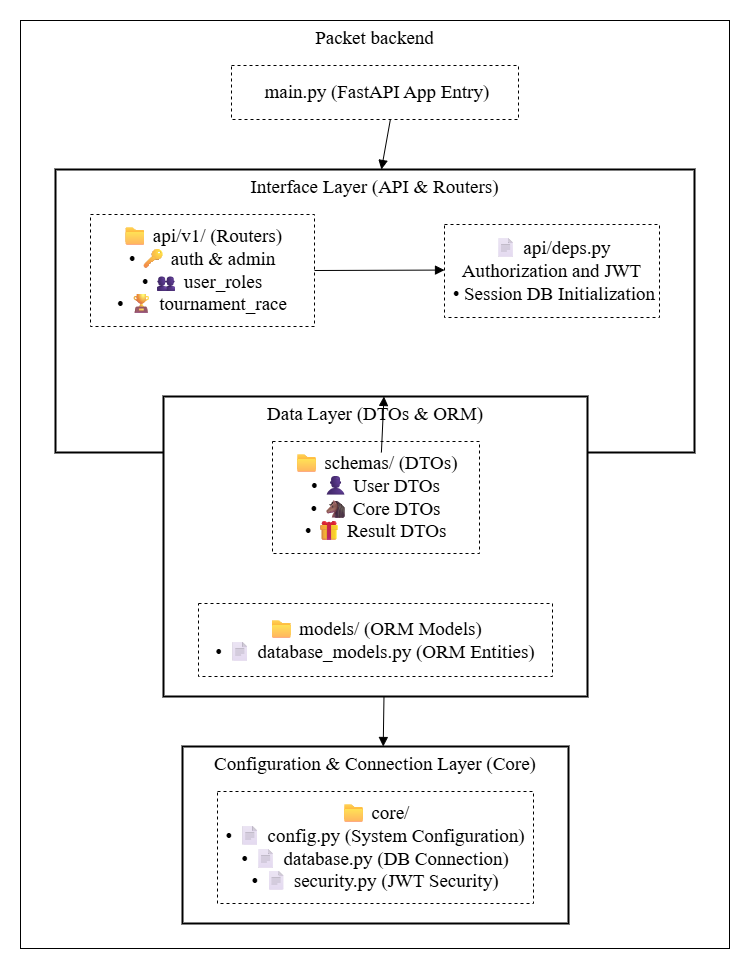
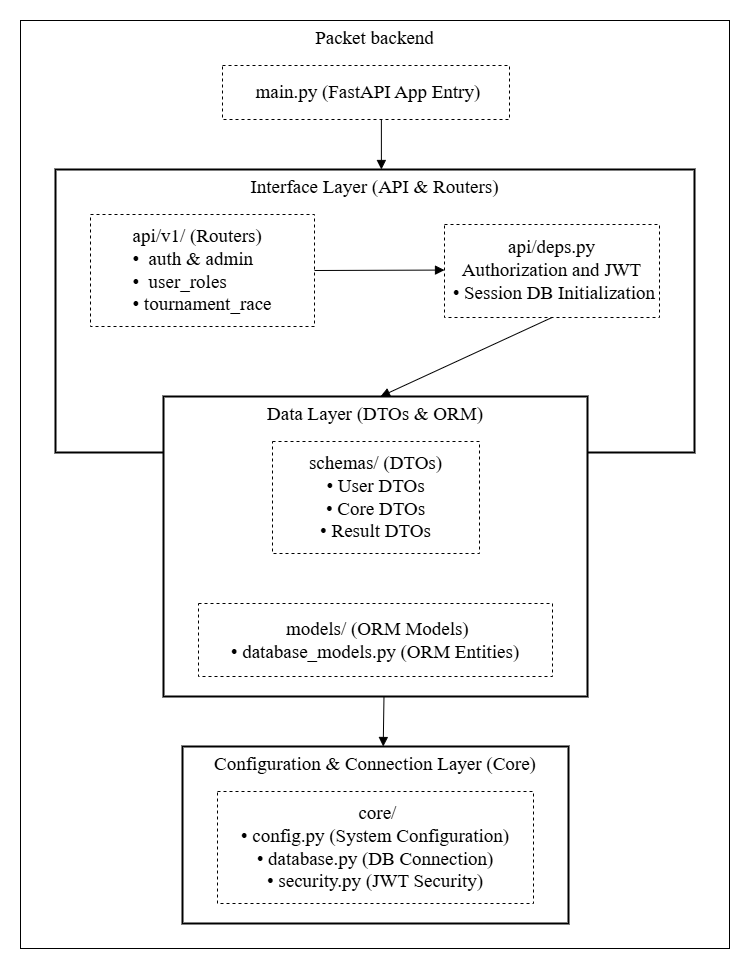
update chuong 5

diff --git a/report_latex_final/documents/software_testing_ocumentation.tex b/report_latex_final/documents/software_testing_ocumentation.tex
@@ -2,4 +2,290 @@
 
 \section{Scope of Testing}
 
+\subsection{In-Scope Testing}
+
+The test scope covers the main business functions of the Horse Racing Tournament Management System (HRTMS) web application. The purpose of testing is to verify that the core workflows work correctly for each role and that the backend data is stored and retrieved accurately.
+
+\begin{itemize}
+    \item \textbf{Authentication and Registration}
+    \begin{itemize}
+        \item Login with valid and invalid credentials.
+        \item Login handling for locked accounts.
+        \item Registration for Spectator, Horse Owner, Jockey, and Referee roles.
+        \item Logout and redirect back to the login page.
+    \end{itemize}
+
+    \item \textbf{Admin and Tournament Management}
+    \begin{itemize}
+        \item Load, create, update, and delete tournaments.
+        \item Create rounds and races.
+        \item Assign referees and validate scheduling conflicts.
+        \item Manage users, lock and unlock accounts, and change user roles.
+        \item Approve, reject, and reset registrations.
+        \item Manage prizes, awards, and tournament status.
+    \end{itemize}
+
+    \item \textbf{Horse Owner Workflow}
+    \begin{itemize}
+        \item Load, create, edit, and delete horse records.
+        \item Validate horse age and other required fields.
+        \item Select jockeys and send invitations.
+        \item Register horses for tournaments.
+        \item View registration status, profile details, upcoming races, and results.
+    \end{itemize}
+
+    \item \textbf{Jockey Workflow}
+    \begin{itemize}
+        \item View incoming invitations and respond with accept or reject.
+        \item View schedule, profile, and awards.
+        \item Update profile information.
+        \item Validate profile rules such as unique email and required fields.
+        \item Filter leaderboard data by tournament.
+    \end{itemize}
+
+    \item \textbf{Referee Workflow}
+    \begin{itemize}
+        \item View assigned races and race participant details.
+        \item Inspect races and record draft results.
+        \item Confirm official results.
+        \item Report violations and validate fine amounts.
+        \item Update result status from entered to completed.
+    \end{itemize}
+
+    \item \textbf{Spectator Workflow}
+    \begin{itemize}
+        \item Create, edit, and delete predictions.
+        \item Lock predictions after race time.
+        \item View upcoming schedules and completed race results.
+        \item Update personal profile and spectator statistics.
+        \item View leaderboard and filter by tournament.
+    \end{itemize}
+
+    \item \textbf{API Verification}
+    \begin{itemize}
+        \item Validate key backend endpoints with Postman.
+        \item Verify user data, rankings, race lists, invitations, prizes, and race result APIs.
+        \item Check response data, status codes, and persistence in the database.
+    \end{itemize}
+\end{itemize}
+
+\subsection{Out-of-Scope Testing}
+
+The following items are excluded from the final test scope because they are not part of the current release or they require a separate non-functional test plan:
+
+\begin{itemize}
+    \item External payment or betting integrations.
+    \item Mobile application testing.
+    \item Large-scale load or stress testing.
+    \item Automated UI testing frameworks, because the team decided to use manual browser testing for UI verification.
+    \item External services that are not implemented in the current HRTMS release.
+\end{itemize}
+
+\subsection{Constraints \& Assumptions}
+
+\begin{itemize}
+    \item Testing is performed in a production-like environment or a locally deployed environment with seeded test data.
+    \item Test accounts for all roles are available before execution.
+    \item Postman is used to verify backend endpoints and response payloads.
+    \item UI verification is performed manually in the browser using the latest stable Chrome version.
+    \item Test data is prepared in advance so that each role can follow its expected workflow without dependency issues.
+    \item Database connectivity remains stable during the test window.
+\end{itemize}
+
 \section{Test Strategy}
+
+\subsection{Testing Types}
+
+This project uses three main testing types: Unit Testing, Integration Testing, and Functional Testing. The test strategy is built around manual UI verification and Postman-based API verification, which matches the final decision of the team.
+
+\begin{itemize}
+    \item \textbf{Unit Testing}
+    \begin{itemize}
+        \item \textbf{Objective:} Verify the correctness of individual functions, services, controllers, and validation rules in isolation. In HRTMS, unit-level checks focus on login logic, horse age validation, tournament registration rules, invitation validation, race result processing, and leaderboard calculation.
+        \item \textbf{Technique:} White-box testing is applied by developers during implementation. Individual functions are checked with controlled inputs and mock data when they depend on the database or other modules.
+        \item \textbf{Completion Criteria:}
+        \begin{itemize}
+            \item Core business logic in important modules is covered by unit checks.
+            \item All unit test cases pass before code is merged.
+            \item No critical logic defect remains in authentication, validation, or result processing.
+        \end{itemize}
+    \end{itemize}
+
+    \item \textbf{Integration Testing}
+    \begin{itemize}
+        \item \textbf{Objective:} Validate that connected modules work correctly together, especially the interaction between the frontend, backend APIs, and database layer.
+        \item \textbf{Technique:} Black-box and gray-box testing are performed with Postman and browser-based verification. API requests are sent to the backend, and the results are checked against expected database changes and screen behavior.
+        \item \textbf{Completion Criteria:}
+        \begin{itemize}
+            \item All main integration scenarios are executed and passed.
+            \item Data exchange between frontend, backend, and database is stable.
+            \item No critical defect remains in login flow, registration, scheduling, invitation processing, or race result storage.
+        \end{itemize}
+    \end{itemize}
+
+    \item \textbf{Functional Testing}
+    \begin{itemize}
+        \item \textbf{Objective:} Confirm that the implemented features satisfy the business requirements for each role in the system.
+        \item \textbf{Technique:} Black-box testing is carried out manually through the browser to simulate real user journeys for Admin, Horse Owner, Jockey, Referee, and Spectator.
+        \item \textbf{Completion Criteria:}
+        \begin{itemize}
+            \item All major functional requirements are covered by manual test cases.
+            \item The tested features operate correctly for the intended role and screen.
+            \item No blocking issue remains that prevents normal use of the system.
+        \end{itemize}
+    \end{itemize}
+\end{itemize}
+
+\subsection{Test Levels}
+
+The table below shows how the three testing types are mapped to the testing levels used in this project.
+
+\TableStart{|p{0.28\textwidth}|p{0.18\textwidth}|p{0.18\textwidth}|p{0.18\textwidth}|p{0.18\textwidth}|}
+\textbf{Type of Tests} & \textbf{Unit} & \textbf{Integration} & \textbf{System} & \textbf{Acceptance} \\
+\hline
+Unit Testing & X &  &  &  \\
+\hline
+Integration Testing &  & X & X &  \\
+\hline
+Functional Testing &  &  & X & X \\
+\TableFinish{Test Levels for Horse Racing Tournament Management System}{tab:test_levels}
+
+\subsection{Supporting Tools}
+
+\TableStart{|p{0.28\textwidth}|p{0.20\textwidth}|p{0.22\textwidth}|p{0.18\textwidth}|}
+\textbf{Purpose} & \textbf{Tool} & \textbf{Provider / Vendor} & \textbf{Version} \\
+\hline
+Integration Testing (API) & Postman & Postman, Inc. & Latest \\
+\hline
+Functional Testing (UI) & Manual Browser Testing & In-house & Latest Chrome \\
+\hline
+Database Verification & SQL Server Management Studio & Microsoft & Latest \\
+\hline
+Test Case Tracking & Microsoft Excel & Microsoft & Latest \\
+\TableFinish{Supporting Tools for Testing}{tab:supporting_tools}
+
+\section{Test Plan}
+
+\subsection{Human Resources}
+
+The table below assigns the main testing responsibilities to each project member.
+
+\TableStart{|p{0.23\textwidth}|p{0.17\textwidth}|p{0.52\textwidth}|}
+\textbf{Worker / Doer} & \textbf{Role} & \textbf{Specific Responsibilities / Comments} \\
+\hline
+Ha Duy Hung & Project Leader & Execute and verify the login/logout testing flow, supervise overall testing progress, and approve the final report. \\
+\hline
+Dinh Thuy Anh & Test Leader & Execute and lead the Horse Owner testing flow, coordinate owner-related test cases, and report defects related to horse management and registration. \\
+\hline
+Ho Nguyen Thai Chau & Member & Execute Jockey and leaderboard test cases, and re-check failed cases after fixes. \\
+\hline
+Le Thi My Hue & Member & Execute Admin and tournament management test cases, including API verification with Postman. \\
+\hline
+Bui Le Quang Huy & Member & Execute Referee workflow test cases and verify race result processing. \\
+\hline
+Nguyen Gia Huy & Member & Execute integration tests, consolidate results, and update the final testing report. \\
+\hline
+Doan Thi Thu May & Member & Execute Spectator workflow test cases and verify prediction and profile functions. \\
+\TableFinish{Testing Team Responsibilities}{tab:test_team}
+
+\subsection{Test Environment}
+
+\TableStart{|p{0.34\textwidth}|p{0.20\textwidth}|p{0.18\textwidth}|p{0.16\textwidth}|}
+\textbf{Purpose} & \textbf{Tool} & \textbf{Provider} & \textbf{Version} \\
+\hline
+API validation & Postman & Postman, Inc. & Latest \\
+\hline
+UI validation & Manual browser testing & In-house & Latest Chrome \\
+\hline
+Database inspection & SQL Server Management Studio & Microsoft & Latest \\
+\hline
+Test case documentation & Microsoft Excel & Microsoft & Latest \\
+\TableFinish{Test Environment}{tab:test_environment}
+
+\subsection{Test Milestones}
+
+The test execution window is based on the dates recorded in the test plan workbook.
+
+\TableStart{|p{0.38\textwidth}|p{0.17\textwidth}|p{0.17\textwidth}|}
+\textbf{Milestone Task} & \textbf{Start Date} & \textbf{End Date} \\
+\hline
+Prepare test cases and test data & 21/06/2026 & 21/06/2026 \\
+\hline
+Execute authentication and registration tests & 21/06/2026 & 22/06/2026 \\
+\hline
+Execute admin and tournament management tests & 22/06/2026 & 25/06/2026 \\
+\hline
+Execute horse owner and jockey workflow tests & 26/06/2026 & 29/06/2026 \\
+\hline
+Execute referee and spectator workflow tests & 30/06/2026 & 03/07/2026 \\
+\hline
+Execute API checks and final retest & 03/07/2026 & 05/07/2026 \\
+\TableFinish{Test Milestones}{tab:test_milestones}
+
+\section{Test Cases}
+
+The detailed test cases are maintained in the Excel workbook \texttt{Test\_plan.xlsx}. The sheet contains the general function list to be tested, tester assignment, priority, deadline, notes, and execution status. It is a test function plan, not the final detailed test case specification.
+
+\begin{itemize}
+    \item Main workbook: \texttt{Test\_plan.xlsx}
+    \item Primary sheet: \texttt{Execution Plan}
+    \item Tracking columns: No, Function Name, Priority, Deadline, Tester, Note, Pass, Fail, Untest
+\end{itemize}
+
+\section{Test Reports}
+
+\subsection{General Information}
+
+\TableStart{|p{0.24\textwidth}|p{0.64\textwidth}|}
+\textbf{Field} & \textbf{Value} \\
+\hline
+Project Name & Horse Racing Tournament Management System \\
+\hline
+Project Code & HRTMS \\
+\hline
+Document Code & Test Report \\
+\hline
+Creator & Testing Team \\
+\hline
+Reviewer / Approver & Team Leader and Supervisor \\
+\hline
+Issue Date & 05/07/2026 \\
+\hline
+Notes & Manual UI testing and Postman API verification were used for the final test execution. \\
+\TableFinish{Test Report General Information}{tab:test_report_info}
+
+\subsection{Result by Module}
+
+\TableStart{|p{0.22\textwidth}|p{0.09\textwidth}|p{0.09\textwidth}|p{0.09\textwidth}|p{0.09\textwidth}|p{0.13\textwidth}|p{0.13\textwidth}|p{0.13\textwidth}|}
+\textbf{Module / Workflow} & \textbf{Passed} & \textbf{Failed} & \textbf{Untested} & \textbf{Total} & \textbf{Coverage} & \textbf{Pass Rate} & \textbf{Status} \\
+\hline
+Authentication \& Registration & 10 & 0 & 0 & 10 & 100.00\% & 100.00\% & Passed \\
+\hline
+Admin \& Tournament Management & 32 & 0 & 0 & 32 & 100.00\% & 100.00\% & Passed \\
+\hline
+Horse Owner Workflow & 17 & 0 & 0 & 17 & 100.00\% & 100.00\% & Passed \\
+\hline
+Jockey Workflow & 11 & 2 & 0 & 13 & 100.00\% & 84.62\% & Open issues \\
+\hline
+Referee Workflow & 14 & 0 & 0 & 14 & 100.00\% & 100.00\% & Passed \\
+\hline
+Spectator Workflow & 15 & 0 & 0 & 15 & 100.00\% & 100.00\% & Passed \\
+\hline
+Backend API Checks & 5 & 0 & 1 & 6 & 83.33\% & 100.00\% & Follow-up needed \\
+\hline
+\textbf{Total} & \textbf{104} & \textbf{2} & \textbf{1} & \textbf{107} & \textbf{99.07\%} & \textbf{98.11\%} & \textbf{Overall passed} \\
+\TableFinish{Result by Module}{tab:module_results}
+
+\subsection{Open Issues}
+
+The following cases were not fully completed or still need follow-up:
+
+\begin{itemize}
+    \item \textbf{validateJockeyProfileEmailDuplicate}: This case failed because some required data validation paths were missing during execution.
+    \item \textbf{filterLeaderboardByTournament}: This case failed because the leaderboard filter did not return correct results in some scenarios.
+    \item \textbf{getTournamentAwards}: This case was untested because the test data for awards was not sufficient at the time of execution.
+\end{itemize}
+
+\subsection{Final Comment}
+
+The overall testing result shows that the system is stable for the main workflows. The report is summarized by module instead of a global test summary because the final reporting is based on the executed function groups. Most test cases passed successfully, and the remaining issues are concentrated in the Jockey workflow and one backend API case. These items should be retested after the related fixes and test data are prepared.
